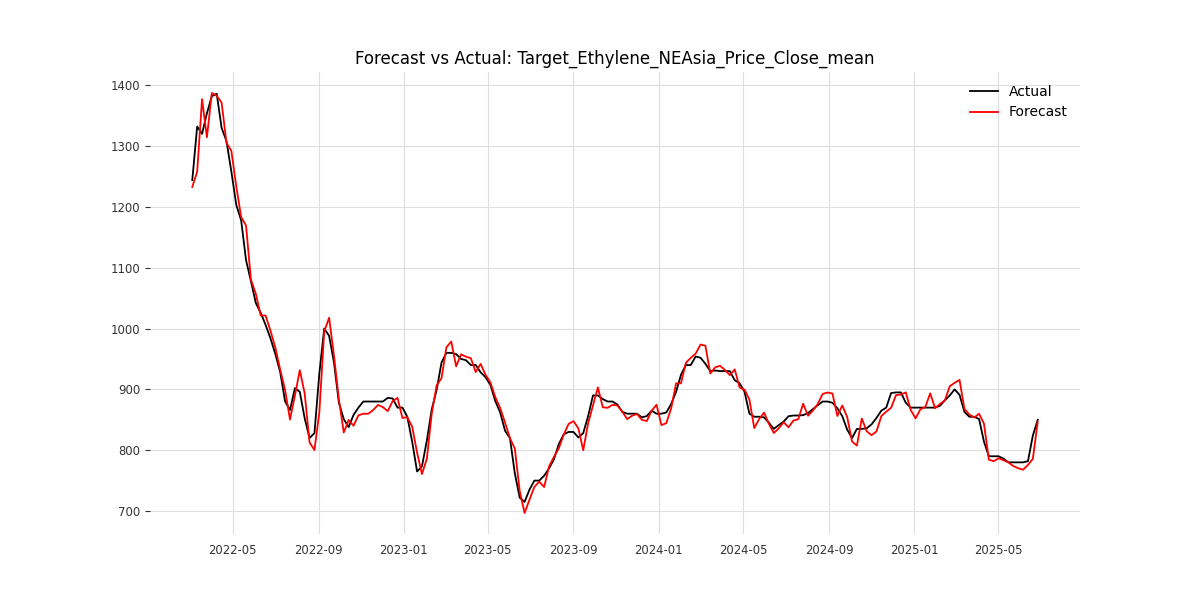
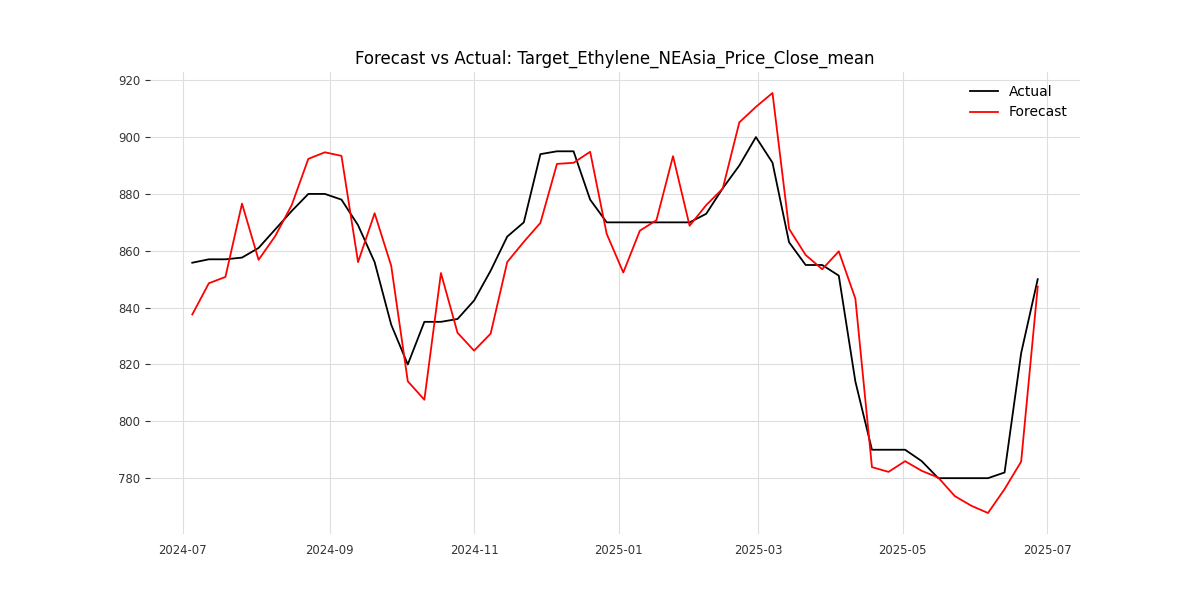
Clean up the code

diff --git a/varima_forecasting.py b/varima_forecasting.py
@@ -146,6 +146,107 @@ class DataPreparation:
             
         return components
 
+    def prepare_multivariate_series(self, data: Dict[str, pd.DataFrame], train_index: pd.Index, 
+                                    test_index: pd.Index, col_name: str) -> Tuple[TimeSeries, TimeSeries]:
+        """
+        Prepare multivariate TimeSeries from a dictionary of DataFrames.
+        """
+        # Collect relevant series
+        series_list = []
+        for target in self.target_cols:
+            if target in data and col_name in data[target].columns:
+                series_list.append(data[target][col_name].rename(target))
+        
+        if not series_list:
+            raise ValueError(f"No valid data found for column '{col_name}'")
+            
+        # Create unified DataFrame (inner join for alignment)
+        multi_df = pd.concat(series_list, axis=1, join='inner')
+        
+        # Split based on provided indices
+        train_df = multi_df.loc[multi_df.index.isin(train_index)]
+        test_df = multi_df.loc[multi_df.index.isin(test_index)]
+        
+        if train_df.empty:
+            raise ValueError("Training set is empty after alignment")
+            
+        # Convert to Darts TimeSeries
+        return TimeSeries.from_dataframe(train_df), TimeSeries.from_dataframe(test_df)
+
+
+class ModelTraining:
+    """
+    Handles model training and hyperparameter tuning.
+    """
+    @staticmethod
+    def perform_grid_search(
+        model_entity, 
+        parameters: Dict[str, Any], 
+        series: TimeSeries, 
+        metric=mse,
+        val_len: int = 12
+    ) -> Tuple[Any, Dict[str, Any], float]:
+        """
+        Perform grid search with validation on the last `val_len` points of `series`.
+        """
+        train = series[:-val_len]
+        val = series[-val_len:]
+        
+        return model_entity.gridsearch(
+            parameters=parameters,
+            series=train,
+            val_series=val,
+            metric=metric
+        )
+
+    @staticmethod
+    def forecast_seasonal(
+        series: pd.Series, 
+        train_split_date: Any, 
+        period: int
+    ) -> TimeSeries:
+        """
+        Forecast seasonal component using NaiveSeasonal.
+        """
+        full_seasonal_ts = TimeSeries.from_series(series)
+        train_seasonal_ts = full_seasonal_ts.drop_after(train_split_date)
+        
+        seasonal_model = NaiveSeasonal(K=period)
+        seasonal_model.fit(train_seasonal_ts)
+        
+        return seasonal_model.historical_forecasts(
+            series=full_seasonal_ts,
+            start=len(train_seasonal_ts),
+            forecast_horizon=1,
+            stride=1,
+            retrain=True,
+            verbose=False
+        )
+
+    @staticmethod
+    def combine_predictions(predictions: List[TimeSeries]) -> TimeSeries:
+        """
+        Align multiple TimeSeries on their common time index and sum them up.
+        """
+        if not predictions:
+            raise ValueError("No predictions provided")
+            
+        # Find common intersection
+        common_index = predictions[0].time_index
+        for ts in predictions[1:]:
+            common_index = common_index.intersection(ts.time_index)
+            
+        if common_index.empty:
+            raise ValueError("No overlapping time index found")
+            
+        # Sum values on common index
+        final_values = sum(
+            ts.slice(common_index[0], common_index[-1]).values().flatten() 
+            for ts in predictions
+        )
+            
+        return TimeSeries.from_times_and_values(common_index, final_values)
+
 
 class Evaluator:
     """
@@ -253,88 +354,90 @@ def run_varima_pipeline():
     Visualization.plot_decomposition(components, OUTPUT_DIR)
     
     # 3. Modeling & Forecasting
-    
-    # Prepare Residuals for VARIMA (Multivariate)
-    train_residuals = []
-    test_residuals = []
-    
-    for target in targets:
-        if target not in components:
-            continue
-        
-        comp = components[target]
-        # Split components back to train/test (align indices)
-        train_idx = comp.index.intersection(train_df.index)
-        test_idx = comp.index.intersection(test_df.index)
-        
-        train_comp = comp.loc[train_idx]
-        test_comp = comp.loc[test_idx]
-        
-        train_residuals.append(TimeSeries.from_series(train_comp['residual']))
-        test_residuals.append(TimeSeries.from_series(test_comp['residual']))
-    
-    if not train_residuals:
-        logger.error("No targets found for modeling")
-        return
 
-    # Create multivariate series
-    train_res_multi = train_residuals[0]
-    test_res_multi = test_residuals[0]
-    
-    for i in range(1, len(train_residuals)):
-        train_res_multi = train_res_multi.stack(train_residuals[i])
-        test_res_multi = test_res_multi.stack(test_residuals[i])
+    # Prepare Trends for SVR (Multivariate)
+    try:
+        train_trend_multi, test_trend_multi = prep.prepare_multivariate_series(
+            components, 
+            train_df.index, 
+            test_df.index,
+            col_name='trend'
+        )
+    except ValueError as e:
+        logger.error(str(e))
+        return
         
-    # Hyperparameter Tuning for VARIMA
-    logger.info("Starting Hyperparameter Tuning for VARIMA...")
-    best_model = None
-    best_aic = float('inf')
+    # Hyperparameter Tuning for Linear Regression (Trend)
+    logger.info("Starting Hyperparameter Tuning for Linear Regression (Trend)...")
     
-    # Simple grid search for p, d, q
-    ps = [1, 2, 3]
-    ds = [0, 1]
-    qs = [0, 1, 2]
+    parameters = {
+        'lags': [4, 8, 12, 26, 52]
+    }
     
-    for p in ps:
-        for d in ds:
-            for q in qs:
-                try:
-                    logger.info(f"Trying VARIMA(p={p},d={d},q={q})...")
-                    model = VARIMA(p=p, d=d, q=q, trend='c')
-                    
-                    # Validate on last 12 weeks of train
-                    val_len = 12
-                    train_sub, val_sub = train_res_multi[:-val_len], train_res_multi[-val_len:]
-                    model.fit(train_sub)
-                    pred = model.predict(n=val_len)
-                    err = mse(val_sub, pred)
-                    
-                    if err < best_aic:
-                        best_aic = err
-                        best_model = VARIMA(p=p, d=d, q=q, trend='c')
-                        logger.info(f"New best VARIMA(p={p},d={d},q={q}) with AIC={err:.4f}")
-                        
-                except Exception as e:
-                    logger.warning(f"VARIMA(p={p},d={d},q={q}) failed: {str(e)}")
-                    continue
-    
-    if best_model is None:
-        logger.warning("Hyperparameter tuning failed, using default VARIMA(1,0,0)")
-        best_model = VARIMA(p=1, d=0, q=0)
+    try:
+        best_model, best_params, best_score = ModelTraining.perform_grid_search(
+            LinearRegressionModel, parameters, train_trend_multi
+        )
+        logger.info(f"Best Linear Regression parameters: {best_params} with MSE={best_score}")
+        
+    except Exception as e:
+        logger.warning(f"Grid search failed: {str(e)}. Using default LinearRegressionModel(lags=4)")
+        best_model = LinearRegressionModel(lags=4)
         
     # Fit best model on full train residuals
-    logger.info("Fitting best VARIMA model on full train residuals...")
+    best_model.fit(train_trend_multi)
+    
+    # Historical Forecasts (on Test set)
+    full_trend_multi = train_trend_multi.append(test_trend_multi)
+    
+    hist_pred_trend = best_model.historical_forecasts(
+        series=full_trend_multi,
+        start=len(train_trend_multi),
+        forecast_horizon=1,
+        stride=1,
+        retrain=False,
+        verbose=True
+    )
+    
+    # Prepare Residuals for VARIMA (Multivariate)
+    try:
+        train_res_multi, test_res_multi = prep.prepare_multivariate_series(
+            components, 
+            train_df.index, 
+            test_df.index,
+            col_name='residual'
+        )
+    except ValueError as e:
+        logger.error(str(e))
+        return
+        
+    # Hyperparameter Tuning for VARIMA
+    parameters = {
+        'p': [1, 2, 3],
+        'd': [0, 1],
+        'q': [0, 1, 2],
+        'trend': ['c']
+    }
+    
+    try:
+        best_model, best_params, best_score = ModelTraining.perform_grid_search(
+            VARIMA, parameters, train_res_multi
+        )
+        logger.info(f"Best VARIMA parameters: {best_params} with MSE={best_score}")
+        
+    except Exception as e:
+        logger.warning(f"Grid search failed: {str(e)}. Using default VARIMA(1,0,0)")
+        best_model = VARIMA(p=1, d=0, q=0, trend='None')
+        
+    # Fit best model on full train residuals
     best_model.fit(train_res_multi)
     
     # Historical Forecasts (on Test set)
-    logger.info("Generating historical forecasts...")
-    
-    # Append test data for historical forecasts
     full_res_multi = train_res_multi.append(test_res_multi)
     
     hist_pred_res = best_model.historical_forecasts(
         series=full_res_multi,
-        start=pd.Timestamp("2021-02-05"), #len(train_res_multi),
+        start=len(train_res_multi),
         forecast_horizon=1,
         stride=1,
         retrain=False,
@@ -346,59 +449,25 @@ def run_varima_pipeline():
         if target not in components:
             continue
             
-        comp = components[target]
-        train_idx = comp.index.intersection(train_df.index)
-        test_idx = comp.index.intersection(test_df.index)
-        
-        train_comp = comp.loc[train_idx]
-        test_comp = comp.loc[test_idx]
-        
-        # 1. Forecast Trend (Linear Regression)
-        trend_train = TimeSeries.from_series(train_comp['trend'])
-        trend_model = LinearRegressionModel(lags=4)
-        trend_model.fit(trend_train)
-        
-        full_trend = TimeSeries.from_series(comp['trend'])
-        trend_pred = trend_model.historical_forecasts(
-            series=full_trend,
-            start=pd.Timestamp("2021-02-05"),
-            forecast_horizon=1,
-            stride=1,
-            retrain=True
-        )
-        
-        # 2. Forecast Seasonal (NaiveSeasonal)
-        seasonal_train = TimeSeries.from_series(train_comp['seasonal'])
-        seasonal_model = NaiveSeasonal(K=SEASONAL_PERIOD)
-        seasonal_model.fit(seasonal_train)
-        
-        full_seasonal = TimeSeries.from_series(comp['seasonal'])
-        seasonal_pred = seasonal_model.historical_forecasts(
-            series=full_seasonal,
-            start=pd.Timestamp("2021-02-05"),
-            forecast_horizon=1,
-            stride=1,
-            retrain=True
-        )
-        
-        # 3. Get Residual Prediction
+        # 1. Component Predictions
+        trend_pred = hist_pred_trend.univariate_component(i)
         res_pred = hist_pred_res.univariate_component(i)
         
-        # Align indices
-        common_index = trend_pred.time_index.intersection(seasonal_pred.time_index).intersection(res_pred.time_index)
+        seasonal_pred = ModelTraining.forecast_seasonal(
+            series=components[target]['seasonal'],
+            train_split_date=train_df.index[-1],
+            period=SEASONAL_PERIOD
+        )
         
-        trend_vals = trend_pred.slice(common_index[0], common_index[-1]).values().flatten()
-        seasonal_vals = seasonal_pred.slice(common_index[0], common_index[-1]).values().flatten()
-        res_vals = res_pred.slice(common_index[0], common_index[-1]).values().flatten()
-        
-        final_pred_vals = trend_vals + seasonal_vals + res_vals
-        final_pred_series = pd.Series(final_pred_vals, index=common_index)
-        
+        # 2. Reconstruct Prediction
+        final_pred_series = ModelTraining.combine_predictions([trend_pred, seasonal_pred, res_pred])
+        common_index = final_pred_series.time_index
+
         # Get Actuals
         actuals = full_df.loc[common_index, target]
         
         # Evaluate
-        metrics = Evaluator.calculate_metrics(actuals.values, final_pred_vals)
+        metrics = Evaluator.calculate_metrics(actuals.values, final_pred_series.values())
         logger.info(f"Results for {target}: {metrics}")
         
         # Save metrics
@@ -406,7 +475,8 @@ def run_varima_pipeline():
             json.dump(metrics, f, indent=4)
             
         # Plot
-        Visualization.plot_forecast(actuals, final_pred_series, target, OUTPUT_DIR)
+        preds = pd.Series(final_pred_series.values().flatten(), index=final_pred_series.time_index)
+        Visualization.plot_forecast(actuals, preds, target, OUTPUT_DIR)
         
     logger.info("Pipeline completed successfully.")
 
